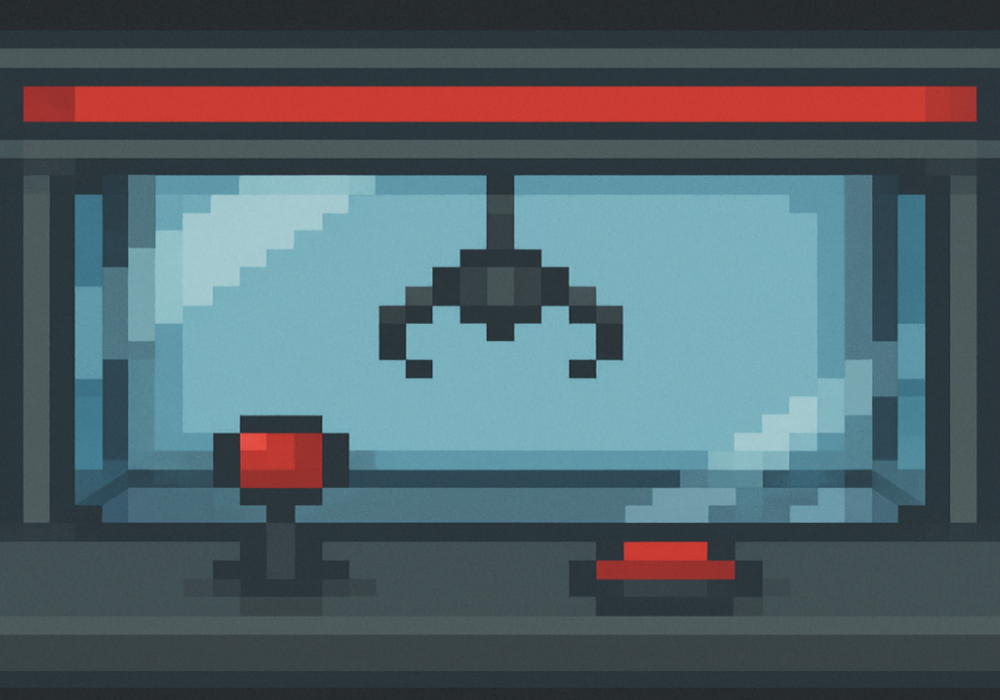
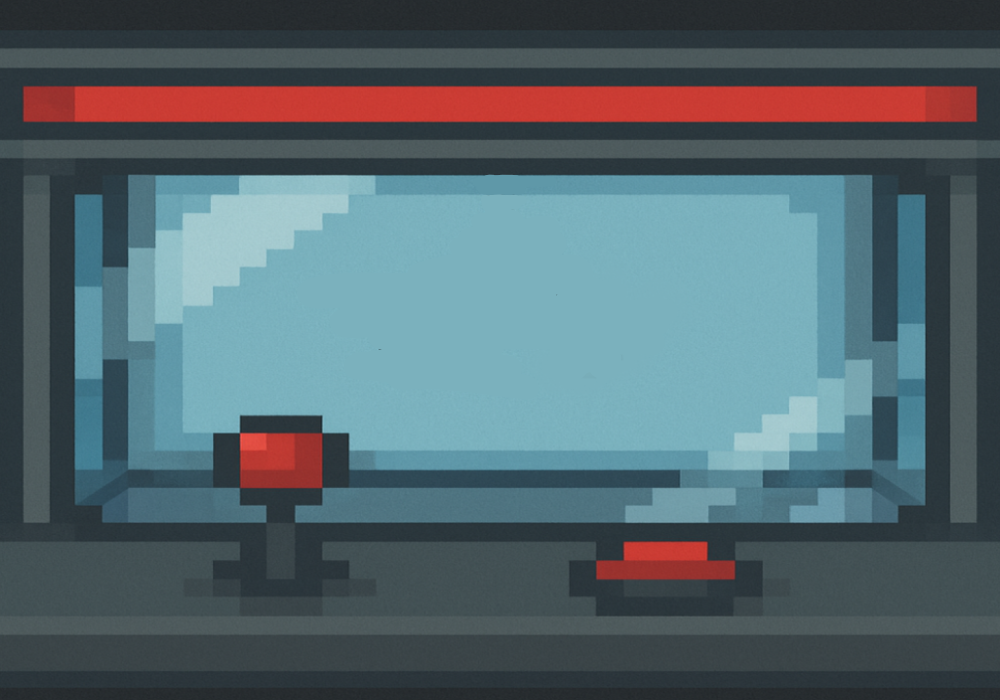
Mudanca nos valores da posicao, da largura e altura dos botoes, garra e urso

Changed region(s): [[0.372, 0.24, 0.651, 0.54]]

diff --git a/main.py b/main.py
@@ -18,7 +18,7 @@ pygame.display.set_icon(icone)
 branco = (255,255,255)
 preto = (0, 0 ,0 )
 garra = pygame.image.load("assets/garra.png")
-#fundoStart = pygame.image.load("assets/fundoStart.jpg")
+fundoStart = pygame.image.load("assets/fundoJogo.png")
 fundoJogo = pygame.image.load("assets/fundoJogo.png")
 #fundoDead = pygame.image.load("assets/fundoDead.png")
 urso = pygame.image.load("assets/ursinho.png")
@@ -63,84 +63,74 @@ def jogar():
     root.mainloop()
     
 
-    posicaoXPersona = 400
-    posicaoYPersona = 300
-    movimentoXPersona  = 0
-    movimentoYPersona  = 0
-    posicaoXMissel = 400
-    posicaoYMissel = -240
-    velocidadeMissel = 1
-    pygame.mixer.Sound.play(missileSound)
-    pygame.mixer.music.play(-1)
+    posicaoXGarra = 400
+    posicaoYGarra = 175
+    movimentoXGarra  = 0
+    movimentoYGarra  = 0
+    posicaoXUrso = 445
+    posicaoYUrso = 500
+    #pygame.mixer.Sound.play(missileSound)
+    #pygame.mixer.music.play(-1)
     pontos = 0
-    larguraPersona = 250
-    alturaPersona = 127
-    larguaMissel  = 50
-    alturaMissel  = 250
+    larguraGarra = 100
+    alturaGarra = 80
+    larguaUrso  = 75
+    alturaUrso  = 75
     dificuldade  = 30
     while True:
         for evento in pygame.event.get():
             if evento.type == pygame.QUIT:
                 quit()
             elif evento.type == pygame.KEYDOWN and evento.key == pygame.K_RIGHT:
-                movimentoXPersona = 15
+                movimentoXGarra = 15
             elif evento.type == pygame.KEYDOWN and evento.key == pygame.K_LEFT:
-                movimentoXPersona = -15
+                movimentoXGarra = -15
             elif evento.type == pygame.KEYUP and evento.key == pygame.K_RIGHT:
-                movimentoXPersona = 0
+                movimentoXGarra = 0
             elif evento.type == pygame.KEYUP and evento.key == pygame.K_LEFT:
-                movimentoXPersona = 0
+                movimentoXGarra = 0
             elif evento.type == pygame.KEYDOWN and evento.key == pygame.K_UP:
-                movimentoYPersona = -15
+                movimentoYGarra = -15
             elif evento.type == pygame.KEYDOWN and evento.key == pygame.K_DOWN:
-                movimentoYPersona = 15
+                movimentoYGarra = 15
             elif evento.type == pygame.KEYUP and evento.key == pygame.K_UP:
-                movimentoYPersona = 0
+                movimentoYGarra = 0
             elif evento.type == pygame.KEYUP and evento.key == pygame.K_DOWN:
-                movimentoYPersona = 0
+                movimentoYGarra = 0
                 
-        posicaoXPersona = posicaoXPersona + movimentoXPersona            
-        posicaoYPersona = posicaoYPersona + movimentoYPersona            
+        posicaoXGarra = posicaoXGarra + movimentoXGarra            
+        posicaoYGarra = posicaoYGarra + movimentoYGarra       
         
-        if posicaoXPersona < 0 :
-            posicaoXPersona = 15
-        elif posicaoXPersona >550:
-            posicaoXPersona = 540
+        if posicaoXGarra < 0 :
+            posicaoXGarra = 15
+        elif posicaoXGarra >550:
+            posicaoXGarra = 540
             
-        if posicaoYPersona < 0 :
-            posicaoYPersona = 15
-        elif posicaoYPersona > 473:
-            posicaoYPersona = 463
+        if posicaoYGarra < 0 :
+            posicaoYGarra = 15
+        elif posicaoYGarra > 473:
+            posicaoYGarra = 463
         
             
         tela.fill(branco)
         tela.blit(fundoJogo, (0,0) )
-        tela.blit( iron, (posicaoXPersona, posicaoYPersona) )
-        
-        posicaoYMissel = posicaoYMissel + velocidadeMissel
-        if posicaoYMissel > 600:
-            posicaoYMissel = -240
-            pontos = pontos + 1
-            velocidadeMissel = velocidadeMissel + 1
-            posicaoXMissel = random.randint(0,800)
-            pygame.mixer.Sound.play(missileSound)
+        tela.blit( garra, (posicaoXGarra, posicaoYGarra) )
             
-            
-        tela.blit( missel, (posicaoXMissel, posicaoYMissel) )
+        tela.blit( urso, (posicaoXUrso, posicaoYUrso) )
         
         texto = fonteMenu.render("Pontos: "+str(pontos), True, branco)
         tela.blit(texto, (15,15))
         
-        pixelsPersonaX = list(range(posicaoXPersona, posicaoXPersona+larguraPersona))
-        pixelsPersonaY = list(range(posicaoYPersona, posicaoYPersona+alturaPersona))
-        pixelsMisselX = list(range(posicaoXMissel, posicaoXMissel + larguaMissel))
-        pixelsMisselY = list(range(posicaoYMissel, posicaoYMissel + alturaMissel))
+        pixelsGarraX = list(range(posicaoXGarra, posicaoXGarra+larguraGarra))
+        pixelsGarraY = list(range(posicaoYGarra, posicaoYGarra+alturaGarra))
+        pixelsUrsoX = list(range(posicaoXUrso, posicaoXUrso + larguaUrso))
+        pixelsUrsoY = list(range(posicaoYUrso, posicaoYUrso + alturaUrso))
         
         os.system("cls")
         
         # print( len( list( set(pixelsMisselX).intersection(set(pixelsPersonaX))   ) )   )
-        if  len( list( set(pixelsMisselY).intersection(set(pixelsPersonaY))) ) > dificuldade:
-            if len( list( set(pixelsMisselX).intersection(set(pixelsPersonaX))   ) )  > dificuldade:
+        if  len( list( set(pixelsUrsoY).intersection(set(pixelsGarraY))) ) > dificuldade:
+            if len( list( set(pixelsUrsoX).intersection(set(pixelsUrsoX))   ) )  > dificuldade:
                 escreverDados(nome, pontos)
                 dead()
                 
@@ -154,10 +144,10 @@ def jogar():
 
 
 def start():
-    larguraButtonStart = 150
-    alturaButtonStart  = 40
-    larguraButtonQuit = 150
-    alturaButtonQuit  = 40
+    larguraButtonStart = 350
+    alturaButtonStart  = 100
+    larguraButtonQuit = 350
+    alturaButtonQuit  = 100
     
 
     while True:
@@ -166,24 +156,24 @@ def start():
                 quit()
             elif evento.type == pygame.MOUSEBUTTONDOWN:
                 if startButton.collidepoint(evento.pos):
-                    larguraButtonStart = 140
-                    alturaButtonStart  = 35
+                    larguraButtonStart = 350
+                    alturaButtonStart  = 100
                 if quitButton.collidepoint(evento.pos):
-                    larguraButtonQuit = 140
-                    alturaButtonQuit  = 35
+                    larguraButtonQuit = 350
+                    alturaButtonQuit  = 100
 
                 
             elif evento.type == pygame.MOUSEBUTTONUP:
                 # Verifica se o clique foi dentro do retângulo
                 if startButton.collidepoint(evento.pos):
                     #pygame.mixer.music.play(-1)
-                    larguraButtonStart = 150
-                    alturaButtonStart  = 40
+                    larguraButtonStart = 350
+                    alturaButtonStart  = 100
                     jogar()
                 if quitButton.collidepoint(evento.pos):
                     #pygame.mixer.music.play(-1)
-                    larguraButtonQuit = 150
-                    alturaButtonQuit  = 40
+                    larguraButtonQuit = 350
+                    alturaButtonQuit  = 100
                     quit()
                     
             
@@ -191,13 +181,13 @@ def start():
         tela.fill(branco)
         tela.blit(fundoStart, (0,0) )
 
-        startButton = pygame.draw.rect(tela, branco, (10,10, larguraButtonStart, alturaButtonStart), border_radius=15)
-        startTexto = fonteMenu.render("Iniciar Game", True, preto)
-        tela.blit(startTexto, (25,12))
+        startButton = pygame.draw.rect(tela, branco, (350,250, larguraButtonStart, alturaButtonStart), border_radius=15)
+        startTexto = fonteMenu.render("Iniciar Jogo", True, preto)
+        tela.blit(startTexto, (450,262))
         
-        quitButton = pygame.draw.rect(tela, branco, (10,60, larguraButtonQuit, alturaButtonQuit), border_radius=15)
-        quitTexto = fonteMenu.render("Sair do Game", True, preto)
-        tela.blit(quitTexto, (25,62))
+        quitButton = pygame.draw.rect(tela, branco, (350,400, larguraButtonQuit, alturaButtonQuit), border_radius=15)
+        quitTexto = fonteMenu.render("Sair do Jogo", True, preto)
+        tela.blit(quitTexto, (450,512))
         
         pygame.display.update()
         relogio.tick(60)
@@ -205,11 +195,11 @@ def start():
 
 def dead():
     pygame.mixer.music.stop()
-    pygame.mixer.Sound.play(explosaoSound)
-    larguraButtonStart = 150
-    alturaButtonStart  = 40
-    larguraButtonQuit = 150
-    alturaButtonQuit  = 40
+  #  pygame.mixer.Sound.play(explosaoSound)
+    larguraButtonStart = 350
+    alturaButtonStart  = 100
+    larguraButtonQuit = 350
+    alturaButtonQuit  = 100
     
     
     root = tk.Tk()
@@ -236,31 +226,31 @@ def dead():
                 quit()
             elif evento.type == pygame.MOUSEBUTTONDOWN:
                 if startButton.collidepoint(evento.pos):
-                    larguraButtonStart = 140
-                    alturaButtonStart  = 35
+                    larguraButtonStart = 350
+                    alturaButtonStart  = 100
                 if quitButton.collidepoint(evento.pos):
-                    larguraButtonQuit = 140
-                    alturaButtonQuit  = 35
+                    larguraButtonQuit = 450
+                    alturaButtonQuit  = 100
 
                 
             elif evento.type == pygame.MOUSEBUTTONUP:
                 # Verifica se o clique foi dentro do retângulo
                 if startButton.collidepoint(evento.pos):
                     #pygame.mixer.music.play(-1)
-                    larguraButtonStart = 150
-                    alturaButtonStart  = 40
+                    larguraButtonStart = 350
+                    alturaButtonStart  = 100
                     jogar()
                 if quitButton.collidepoint(evento.pos):
                     #pygame.mixer.music.play(-1)
-                    larguraButtonQuit = 150
-                    alturaButtonQuit  = 40
+                    larguraButtonQuit = 350
+                    alturaButtonQuit  = 100
                     quit()
                     
         
             
             
         tela.fill(branco)
-        tela.blit(fundoDead, (0,0) )
+       # tela.blit(fundoDead, (0,0) )
 
         
         startButton = pygame.draw.rect(tela, branco, (10,10, larguraButtonStart, alturaButtonStart), border_radius=15)
